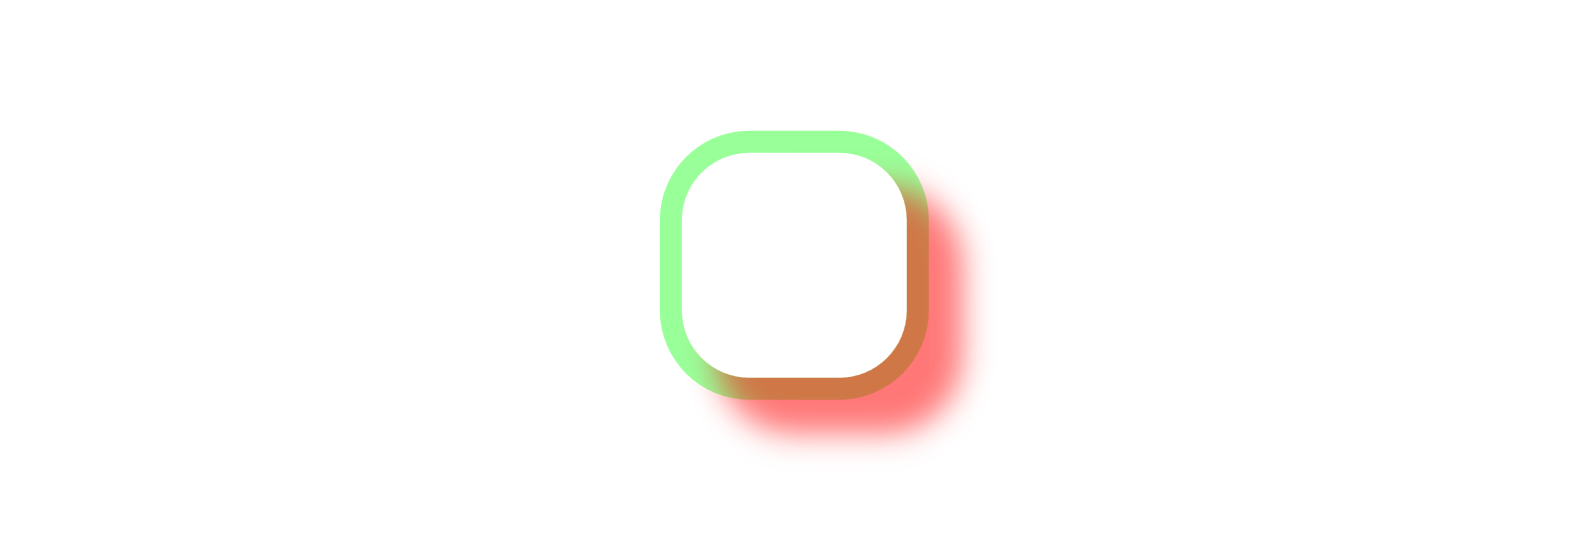
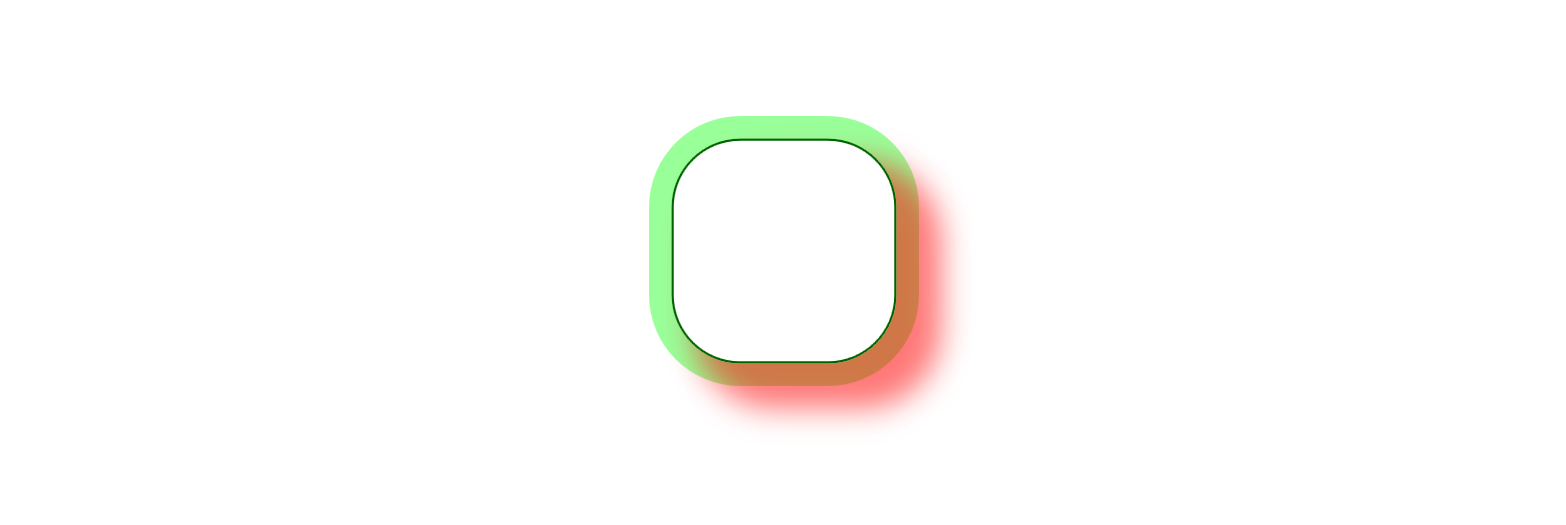
Add a inset boxshadow and no blur effect

Changed region(s): [[0.3985, 0.3962, 0.613, 0.7619], [0.4291, 0.2133, 0.5824, 0.3657]]

diff --git a/src/Yumikou.Wpf.Controls.Sample/MainWindow.xaml b/src/Yumikou.Wpf.Controls.Sample/MainWindow.xaml
@@ -10,10 +10,10 @@
     <Grid>
         <TabControl TabStripPlacement="Left">
             <TabItem Header="Border">
-                <ymk:Border Grid.Row="1" Width="100" Height="100" Background="Transparent" CornerRadius="30" UseLayoutRounding="True">
+                <ymk:Border Grid.Row="1" Width="100" Height="100" Background="Transparent" BorderThickness="1" BorderBrush="DarkGreen" CornerRadius="30">
                     <ymk:Border.BoxShadows>
                         <ymk:BoxShadow BlurRadius="0" SpreadRadius="10" Brush="#6600ff00" OffsetX="0" OffsetY="0"></ymk:BoxShadow>
-                        <ymk:BoxShadow BlurRadius="20" SpreadRadius="5" Brush="#88ff0000" OffsetX="20" OffsetY="20"></ymk:BoxShadow>
+                        <ymk:BoxShadow BlurRadius="20" SpreadRadius="5" Brush="#88ff0000" OffsetX="15" OffsetY="15"></ymk:BoxShadow>
                     </ymk:Border.BoxShadows>
                 </ymk:Border>
             </TabItem>

diff --git a/src/Yumikou.Wpf.Controls/Border.cs b/src/Yumikou.Wpf.Controls/Border.cs
@@ -17,7 +17,7 @@ using Yumikou.Wpf.Controls.Helpers;
 namespace Yumikou.Wpf.Controls
 {
     /// <summary>
-    /// 使用 <see cref="BoxShadows" /> 设置阴影
+    /// use <see cref="BoxShadows" /> set shadow
     /// </summary>
     public class Border : System.Windows.Controls.Border
     {
@@ -35,7 +35,7 @@ namespace Yumikou.Wpf.Controls
 
 #if NET46_OR_GREATER || NETCOREAPP
 #else
-        protected override Geometry? GetLayoutClip(Size layoutSlotSize) // bug fixed: net46以下, 设置UseLayoutRound=true时，会导致ClipToBounds=false失效
+        protected override Geometry? GetLayoutClip(Size layoutSlotSize) // Bug fixed: Before net46, the UseLayoutRound=true would cause ClipToBounds=false to fail
         {
             return this.ClipToBounds ? base.GetLayoutClip(layoutSlotSize) : null;
         }
@@ -55,11 +55,11 @@ namespace Yumikou.Wpf.Controls
             base.OnRender(dc);
 
             BoxShadows? boxShadows = BoxShadows;
-            if (boxShadows != null && boxShadows.Count > 0)
+            if (boxShadows is not null && boxShadows.Count > 0)
             {
                 CornerRadius cornerRadius = CornerRadius;
                 Thickness borders = BorderThickness;
-                Rect innerRect = new Rect(this.RenderSize); //阴影的内层Rect
+                Rect borderOuterRect = new Rect(this.RenderSize);
 #if NET46_OR_GREATER || NETCOREAPP
                 if (this.UseLayoutRounding)
                 {
@@ -68,20 +68,16 @@ namespace Yumikou.Wpf.Controls
                        LayoutHelper.RoundLayoutValue(borders.Right, dpi.DpiScaleX), LayoutHelper.RoundLayoutValue(borders.Bottom, dpi.DpiScaleY));
                 }
 #endif
-                Radii innerRadii = new Radii(cornerRadius, borders, true); //阴影的内层圆角半径
-                StreamGeometry innerGeometry = new StreamGeometry();
-                using (StreamGeometryContext ctx = innerGeometry.Open())
-                {
-                    if (!MathHelper.IsZero(innerRect.Width) && !MathHelper.IsZero(innerRect.Height))
-                    {
-                        DrawingHelper.GenerateRoundedRectangleGeometry(ctx, innerRect, innerRadii);
-                    }
-                }
-                innerGeometry.Freeze();
-
+                Rect borderInnerRect = DrawingHelper.DeflateRect(borderOuterRect, borders);
+                Radii borderOuterRadii = new Radii(cornerRadius, borders, true);
+                Radii borderInnerRadii = new Radii(cornerRadius, borders, false);
+                StreamGeometry? borderOuterGeometry = null;
+                StreamGeometry? borderInnerGeometry = null;
                 foreach (BoxShadow boxShadow in boxShadows)
                 {
-                    if (boxShadow.Brush != null)
+                    if (boxShadow.Brush is not null 
+                        && ((boxShadow.IsInset && !MathHelper.IsZero(borderInnerRect.Width) && !MathHelper.IsZero(borderInnerRect.Height)) 
+                            || (!boxShadow.IsInset && !MathHelper.IsZero(borderOuterRect.Width) && !MathHelper.IsZero(borderOuterRect.Height))))
                     {
                         Thickness spreadBorders = new Thickness(boxShadow.SpreadRadius);
 #if NET46_OR_GREATER || NETCOREAPP
@@ -92,40 +88,83 @@ namespace Yumikou.Wpf.Controls
                                 LayoutHelper.RoundLayoutValue(spreadBorders.Right, dpi.DpiScaleX), LayoutHelper.RoundLayoutValue(spreadBorders.Bottom, dpi.DpiScaleY));
                         }
 #endif
-                        Radii outerRadii = new Radii(innerRadii, spreadBorders, true, 1);
-                        Rect outerRect = DrawingHelper.InflateRect(innerRect, spreadBorders, boxShadow.OffsetX, boxShadow.OffsetY);
-
-                        StreamGeometry outerGeometry = new StreamGeometry();
-                        using (StreamGeometryContext ctx = outerGeometry.Open())
+                        if (boxShadow.IsInset)
                         {
-                            DrawingHelper.GenerateRoundedRectangleGeometry(ctx, outerRect, outerRadii);
-                        }
-                        outerGeometry.Freeze();
-
-                        if (!MathHelper.IsZero(boxShadow.BlurRadius))
-                        {
-                            DrawingVisual outerShadowDv = new DrawingVisual();
-                            using (var outerShadowDvContext = outerShadowDv.RenderOpen())
+                            if (borderInnerGeometry is null)
                             {
-                                outerShadowDvContext.DrawGeometry(boxShadow.Brush, null, outerGeometry);
+                                borderInnerGeometry = new StreamGeometry();
+                                using (StreamGeometryContext ctx = borderInnerGeometry.Open())
+                                {
+                                    DrawingHelper.GenerateRoundedRectangleGeometry(ctx, borderInnerRect, borderInnerRadii);
+                                }
+                                borderInnerGeometry.Freeze();
                             }
-                            outerShadowDv.Effect = new BlurEffect()
+
+                            Radii insetRadii = new Radii(borderInnerRadii, spreadBorders, false, 1);
+                            Rect insetRect = DrawingHelper.DeflateRect(borderInnerRect, spreadBorders, boxShadow.OffsetX, boxShadow.OffsetY);
+                            StreamGeometry insetGeometry = new StreamGeometry();
+                            using (StreamGeometryContext ctx = insetGeometry.Open())
                             {
-                                Radius = boxShadow.BlurRadius,
-                                KernelType = boxShadow.BlurKernelType,
-                                RenderingBias = boxShadow.BlurRenderingBias
-                            };
-                            VisualBrush outerShadowVb = new VisualBrush();
-                            outerShadowVb.Visual = outerShadowDv;
-                            Rect outerShadowRect = DrawingHelper.InflateRect(outerRect, new Thickness(boxShadow.BlurRadius));
-                            RectangleGeometry outerShadowRectGeometry = new RectangleGeometry(outerShadowRect);
-                            PathGeometry shadowGeometry = CombinedGeometry.Combine(outerShadowRectGeometry, innerGeometry, GeometryCombineMode.Exclude, null);
-                            dc.DrawGeometry(outerShadowVb, null, shadowGeometry);
-                        }
-                        else //当模糊度为0时，直接绘制
-                        {
-                            PathGeometry shadowGeometry = CombinedGeometry.Combine(outerGeometry, innerGeometry, GeometryCombineMode.Exclude, null);
+                                DrawingHelper.GenerateRoundedRectangleGeometry(ctx, insetRect, insetRadii);
+                            }
+                            insetGeometry.Freeze();
+
+                            //if (!MathHelper.IsZero(boxShadow.BlurRadius)) //TODO: inset blur effect, may need to customize the effect
+                            //{
+
+                            //}
+                            //else
+                            //{
+                            PathGeometry shadowGeometry = CombinedGeometry.Combine(borderInnerGeometry, insetGeometry, GeometryCombineMode.Exclude, null);
                             dc.DrawGeometry(boxShadow.Brush, null, shadowGeometry);
+                            //}
+                        }
+                        else
+                        {
+                            if (borderOuterGeometry is null)
+                            {
+                                borderOuterGeometry = new StreamGeometry();
+                                using (StreamGeometryContext ctx = borderOuterGeometry.Open())
+                                {
+                                    DrawingHelper.GenerateRoundedRectangleGeometry(ctx, borderOuterRect, borderOuterRadii);
+                                }
+                                borderOuterGeometry.Freeze();
+                            }
+
+                            Radii outerRadii = new Radii(borderOuterRadii, spreadBorders, true, 1);
+                            Rect outerRect = DrawingHelper.InflateRect(borderOuterRect, spreadBorders, boxShadow.OffsetX, boxShadow.OffsetY);
+                            StreamGeometry outerGeometry = new StreamGeometry();
+                            using (StreamGeometryContext ctx = outerGeometry.Open())
+                            {
+                                DrawingHelper.GenerateRoundedRectangleGeometry(ctx, outerRect, outerRadii);
+                            }
+                            outerGeometry.Freeze();
+
+                            if (!MathHelper.IsZero(boxShadow.BlurRadius))
+                            {
+                                DrawingVisual outerShadowDv = new DrawingVisual();
+                                using (var outerShadowDvContext = outerShadowDv.RenderOpen())
+                                {
+                                    outerShadowDvContext.DrawGeometry(boxShadow.Brush, null, outerGeometry);
+                                }
+                                outerShadowDv.Effect = new BlurEffect()
+                                {
+                                    Radius = boxShadow.BlurRadius,
+                                    KernelType = boxShadow.BlurKernelType,
+                                    RenderingBias = boxShadow.BlurRenderingBias
+                                };
+                                VisualBrush outerShadowVb = new VisualBrush();
+                                outerShadowVb.Visual = outerShadowDv;
+                                Rect outerShadowRect = DrawingHelper.InflateRect(outerRect, new Thickness(boxShadow.BlurRadius));
+                                RectangleGeometry outerShadowRectGeometry = new RectangleGeometry(outerShadowRect);
+                                PathGeometry shadowGeometry = CombinedGeometry.Combine(outerShadowRectGeometry, borderOuterGeometry, GeometryCombineMode.Exclude, null);
+                                dc.DrawGeometry(outerShadowVb, null, shadowGeometry);
+                            }
+                            else
+                            {
+                                PathGeometry shadowGeometry = CombinedGeometry.Combine(outerGeometry, borderOuterGeometry, GeometryCombineMode.Exclude, null);
+                                dc.DrawGeometry(boxShadow.Brush, null, shadowGeometry);
+                            }
                         }
                     }
                 }

diff --git a/src/Yumikou.Wpf.Controls/BoxShadow.cs b/src/Yumikou.Wpf.Controls/BoxShadow.cs
@@ -8,12 +8,13 @@ using System.Windows.Media.Effects;
 
 namespace Yumikou.Wpf.Controls
 {
-    /// <summary>
-    /// TODO: 内阴影IsInset
-    /// </summary>
     public class BoxShadow : Freezable
     {
-        //public bool IsInset { get; set; } = false;
+        public bool IsInset
+        {
+            get { return (bool)GetValue(IsInsetProperty); }
+            set { SetValue(IsInsetProperty, value); }
+        }
 
         public double OffsetX
         {
@@ -33,9 +34,6 @@ namespace Yumikou.Wpf.Controls
             set { SetValue(SpreadRadiusProperty, value); }
         }
 
-        /// <summary>
-        /// 模糊半径
-        /// </summary>
         public double BlurRadius
         {
             get { return (double)GetValue(BlurRadiusProperty); }
@@ -59,6 +57,13 @@ namespace Yumikou.Wpf.Controls
             get { return (Brush?)GetValue(BrushProperty); }
             set { SetValue(BrushProperty, value); }
         }
+
+        /// <summary>
+        /// DependencyProperty for <see cref="IsInset" /> property.
+        /// </summary>
+        public static readonly DependencyProperty IsInsetProperty
+            = DependencyProperty.Register("IsInset", typeof(bool), typeof(BoxShadow),
+                                          new PropertyMetadata(BooleanBoxes.FalseBox));
 
         /// <summary>
         /// DependencyProperty for <see cref="OffsetX" /> property.

diff --git a/src/Yumikou.Wpf.Controls/BooleanBoxes.cs b/src/Yumikou.Wpf.Controls/BooleanBoxes.cs
@@ -1,0 +1,26 @@
+using System;
+using System.Collections.Generic;
+using System.Linq;
+using System.Text;
+using System.Threading.Tasks;
+
+namespace Yumikou.Wpf.Controls
+{
+    internal static class BooleanBoxes
+    {
+        public static object TrueBox = true;
+        public static object FalseBox = false;
+
+        public static object Box(bool value)
+        {
+            if (value)
+            {
+                return TrueBox;
+            }
+            else
+            {
+                return FalseBox;
+            }
+        }
+    }
+}

diff --git a/src/Yumikou.Wpf.Controls/Helpers/DrawingHelper.cs b/src/Yumikou.Wpf.Controls/Helpers/DrawingHelper.cs
@@ -156,7 +156,7 @@ namespace Yumikou.Wpf.Controls.Helpers
         /// <param name="rt"></param>
         /// <param name="thick"></param>
         /// <returns></returns>
-        private static Rect DeflateRect(Rect rt, Thickness thick, double offsetX = 0, double offsetY = 0)
+        public static Rect DeflateRect(Rect rt, Thickness thick, double offsetX = 0, double offsetY = 0)
         {
             return new Rect(rt.Left + thick.Left + offsetX,
                             rt.Top + thick.Top + offsetY,

diff --git a/src/Yumikou.Wpf.Controls/WrapPanel.cs b/src/Yumikou.Wpf.Controls/WrapPanel.cs
@@ -20,7 +20,7 @@ namespace Yumikou.Wpf.Controls
     /// 
     /// All children get the layout partition of size ItemWidth x ItemHeight.
     /// 
-    /// 使用 HorizontalSpacing 和 VerticalSpacing 设置元素间距
+    /// Use HorizontalSpacing and VerticalSpacing set children spacing
     /// </summary>
     public class WrapPanel : Panel
     {

diff --git a/readme.md b/readme.md
@@ -24,10 +24,10 @@ Supporting .NET Framework 4.0 and greater, .NET Core 3.0 and greater(on Windows)
 3. The control use cases:
    #### Border with BoxShadow
    ```xaml
-    <ymk:Border Width="100" Height="100" Background="Transparent" CornerRadius="30">
+    <ymk:Border Grid.Row="1" Width="100" Height="100" Background="Transparent" BorderThickness="1" BorderBrush="DarkGreen" CornerRadius="30">
         <ymk:Border.BoxShadows>
-            <ymk:BoxShadow Blur="0" Spread="10" Brush="#6600ff00" OffsetX="0" OffsetY="0"></ymk:BoxShadow>
-            <ymk:BoxShadow Blur="20" Spread="5" Brush="#88ff0000" OffsetX="20" OffsetY="20"></ymk:BoxShadow>
+            <ymk:BoxShadow BlurRadius="0" SpreadRadius="10" Brush="#6600ff00" OffsetX="0" OffsetY="0"></ymk:BoxShadow>
+            <ymk:BoxShadow BlurRadius="20" SpreadRadius="5" Brush="#88ff0000" OffsetX="15" OffsetY="15"></ymk:BoxShadow>
         </ymk:Border.BoxShadows>
     </ymk:Border>
    ```
@@ -44,5 +44,5 @@ Supporting .NET Framework 4.0 and greater, .NET Core 3.0 and greater(on Windows)
    <img alt="WrapPanel can adjust the spacing" src="./docs/WrapPanel.png">
 
 ## TODO
-   - Inset BoxShadow
+   - Blur effect of inset BoxShadow
    - Grid has lines
